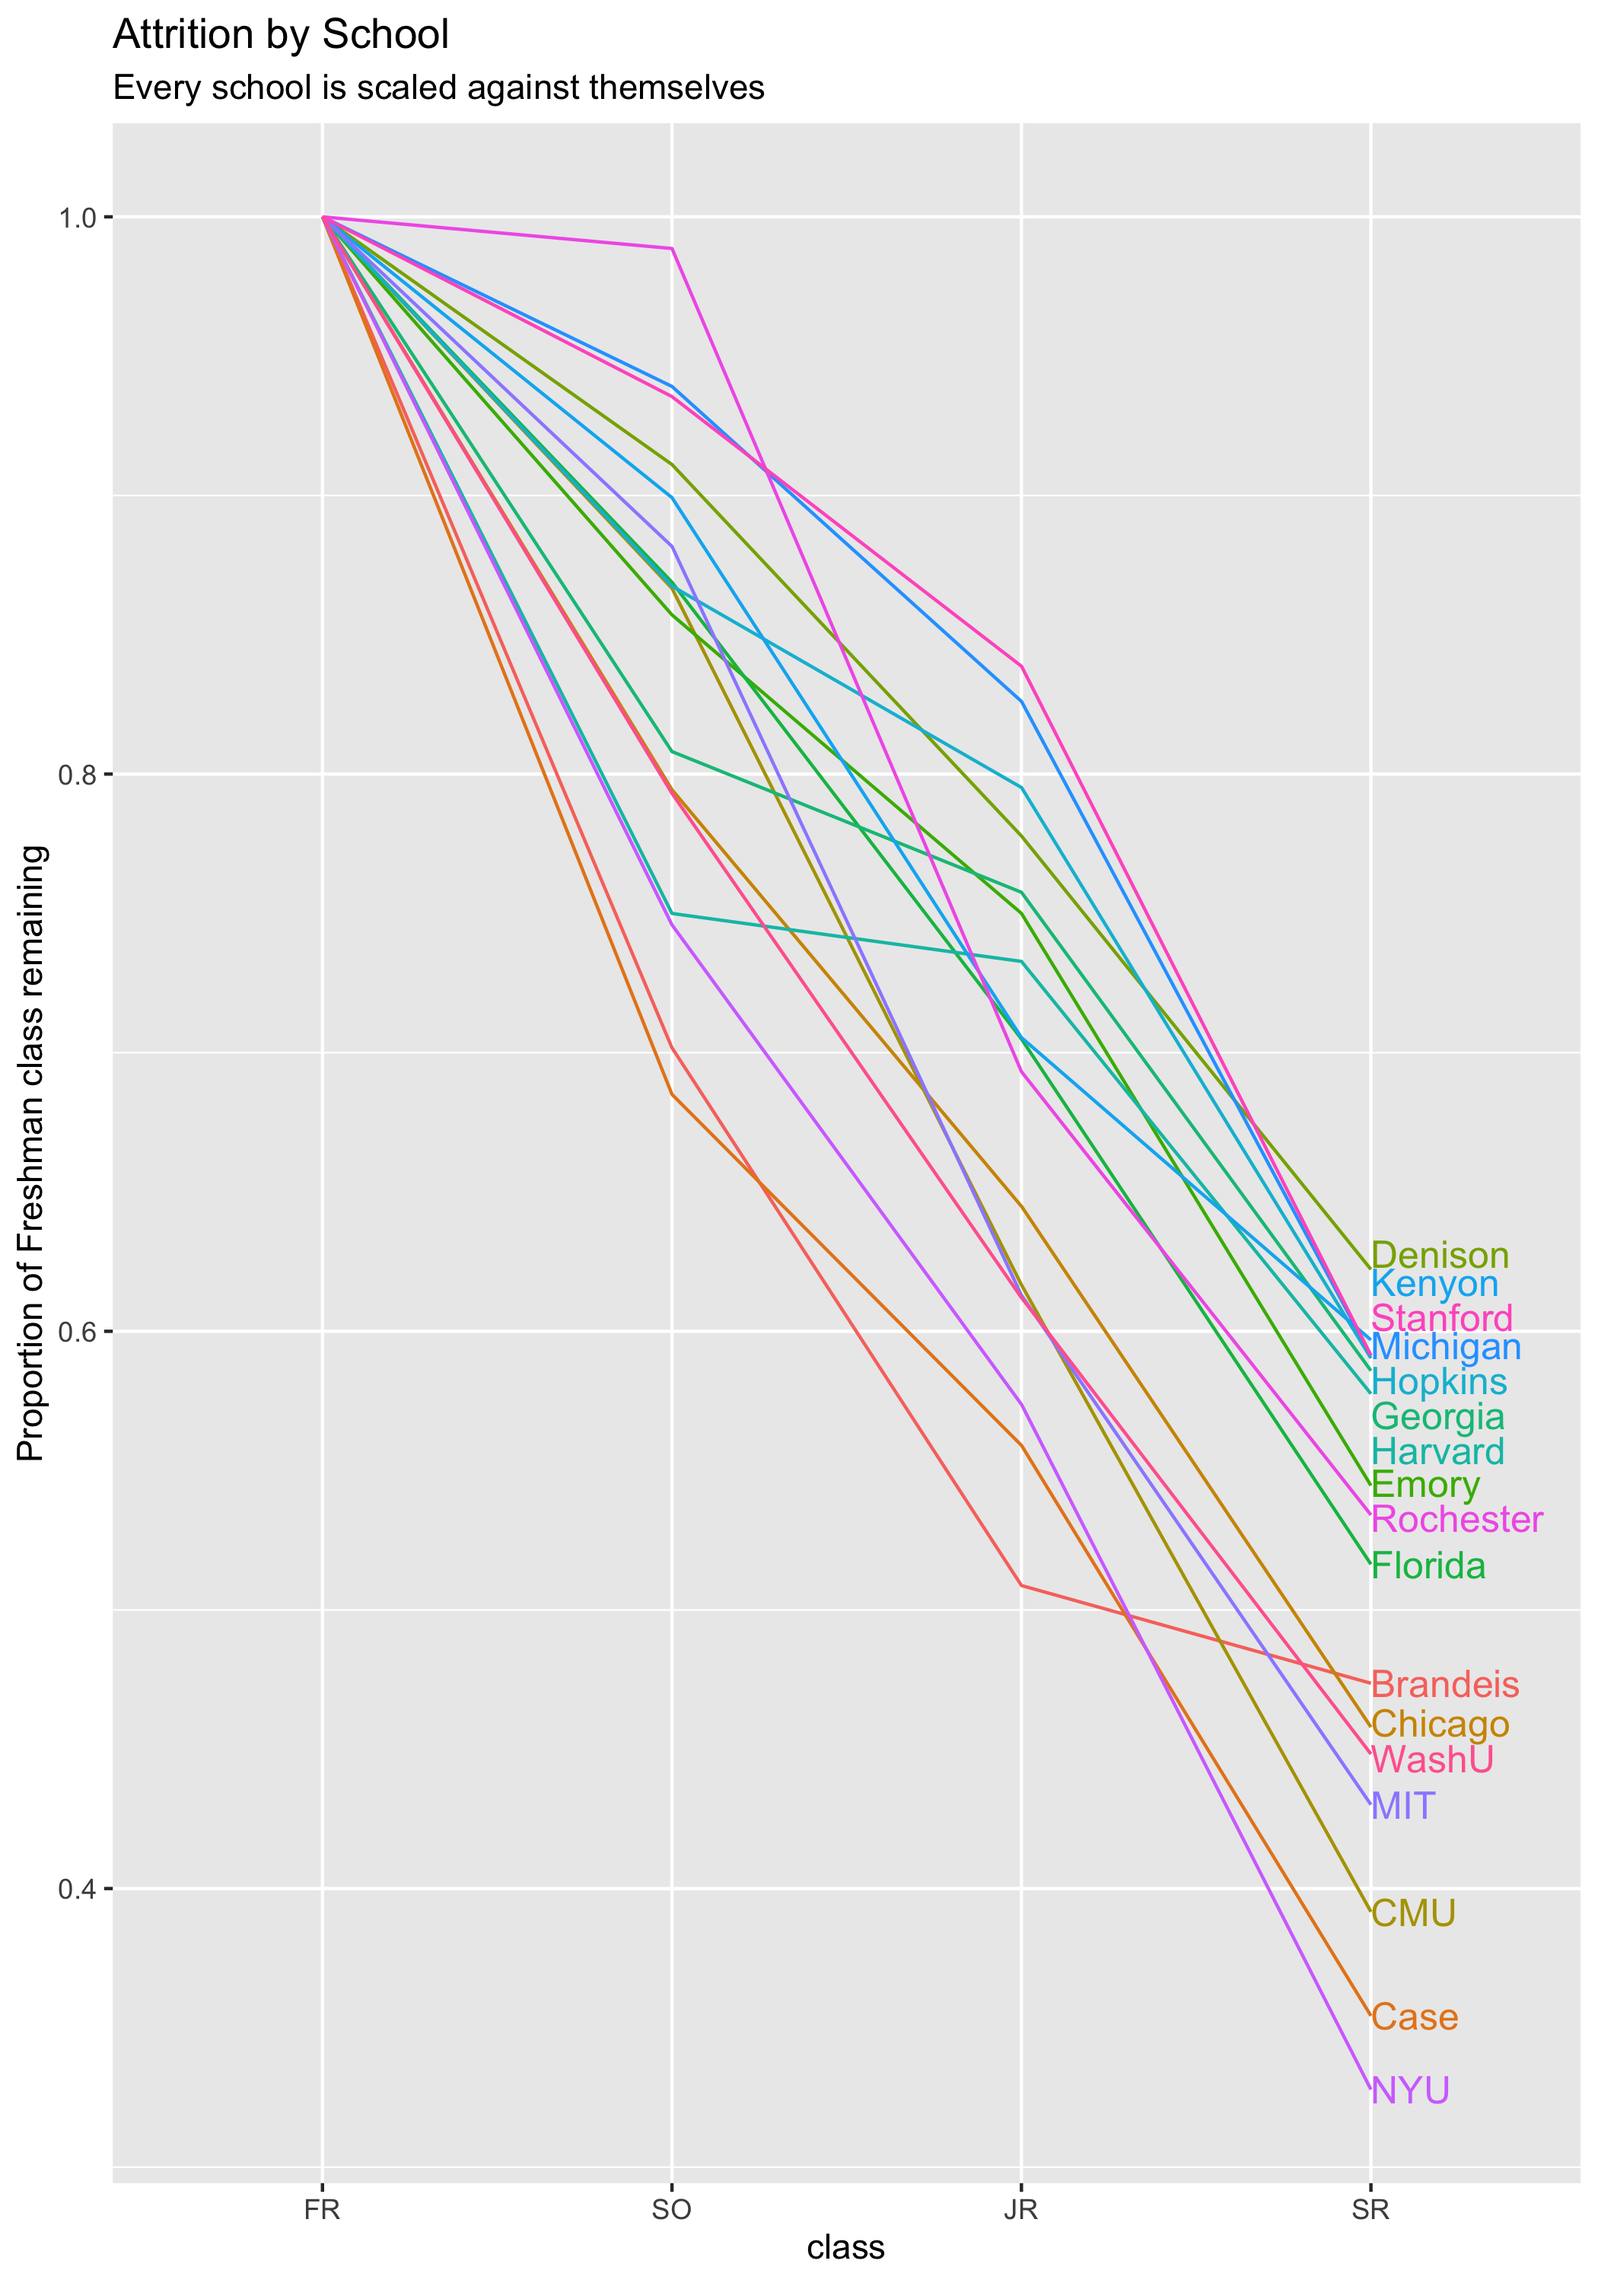
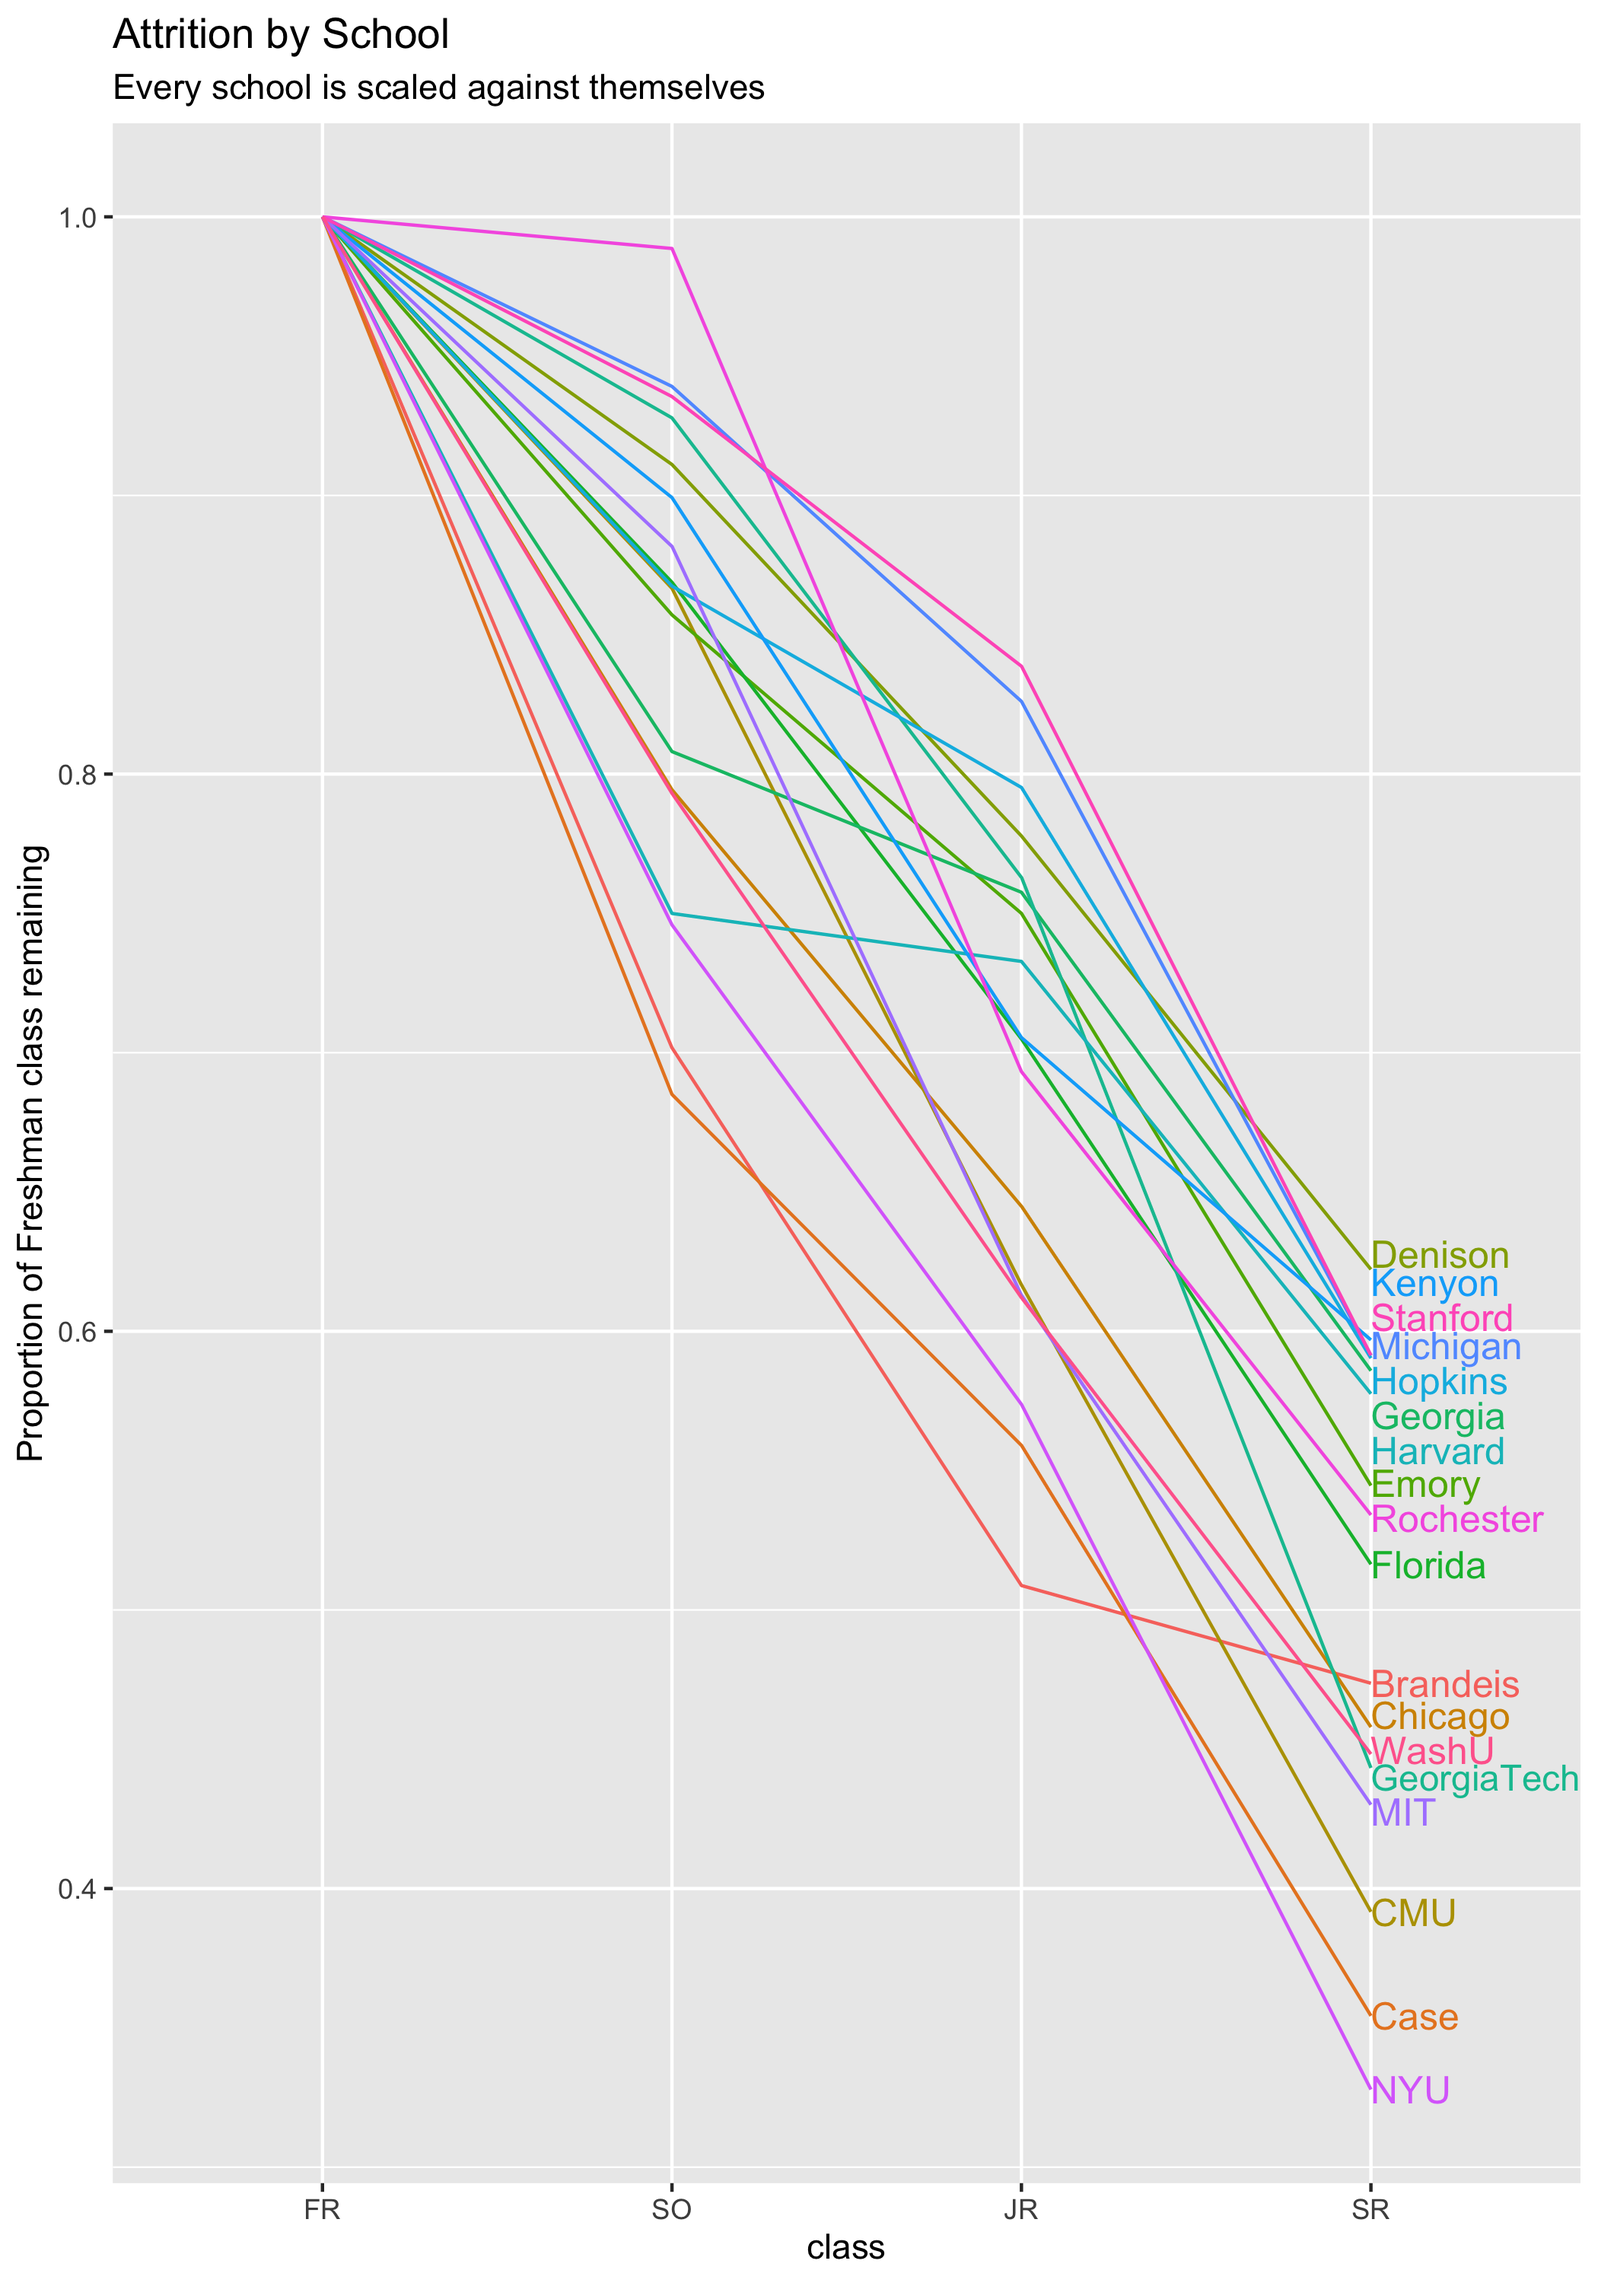
add georgia tech

Changed region(s): [[0.8357, 0.744, 0.9905, 0.806], [0.3714, 0.155, 0.4333, 0.186], [0.2786, 0.124, 0.3405, 0.155]]

diff --git a/tasks/scrape/run.js b/tasks/scrape/run.js
@@ -9,19 +9,19 @@ const end = 2021;
 
 const competitors = {
   // divison 3
-  // CMU: 33,
-  // Emory: 123, // 🖕🖕🖕
-  // Chicago: 259,
-  // WashU: 94,
-  // NYU: 59,
-  // Case: 200,
-  // Rochester: 6,
-  // Brandeis: 4,
-  // Hopkins: 111,
-  // MIT: 14,
-  // Kenyon: 125,
-  // Denison: 118,
-  // Williams: 129,
+  CMU: 33,
+  Emory: 123, // 🖕🖕🖕
+  Chicago: 259,
+  WashU: 94,
+  NYU: 59,
+  Case: 200,
+  Rochester: 6,
+  Brandeis: 4,
+  Hopkins: 111,
+  MIT: 14,
+  Kenyon: 125,
+  Denison: 118,
+  Williams: 129,
 
   // division 1
   Florida: 117,
@@ -29,6 +29,7 @@ const competitors = {
   Harvard: 134,
   Michigan: 89,
   Georgia: 124,
+  GeorgiaTech: 34
 };
 
 // generate a roster given a year and team id

diff --git a/README.md b/README.md
@@ -7,7 +7,7 @@
 
 ## Appendix
 
-Data is from the Carnegie Mellon rosters on [SwimCloud].
+Data is from the team rosters on [SwimCloud].
 
 ### Todo list
 
@@ -26,7 +26,8 @@ npm ci
 npm run scrape
 ```
 
-This should fill up the `data/` directory with files
+This should fill up the `data/` directory with files. This is the file tree for
+just Carnegie Mellon, but the same file tree is reflective of every other school
 
 ```bash
 $ tree data/
@@ -43,28 +44,6 @@ data
 │   ├── 2019.csv
 │   ├── 2020.csv
 │   ├── 2021.csv
-├── Emory
-│   ├── <same as above>
-├── Chicago
-│   ├── <same as above>
-├── WashU
-│   ├── <same as above>
-├── NYU
-│   ├── <same as above>
-├── Case
-│   ├── <same as above>
-├── Rochester
-│   ├── <same as above>
-├── Brandeis
-│   ├── <same as above>
-├── Hopkins
-│   ├── <same as above>
-├── MIT
-│   ├── <same as above>
-├── Kenyon
-│   ├── <same as above>
-├── Denison
-│   ├── <same as above>
 ```
 
 ## Plotting
